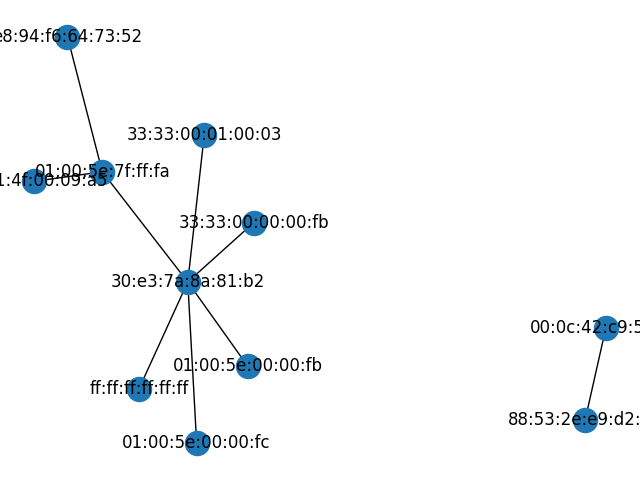
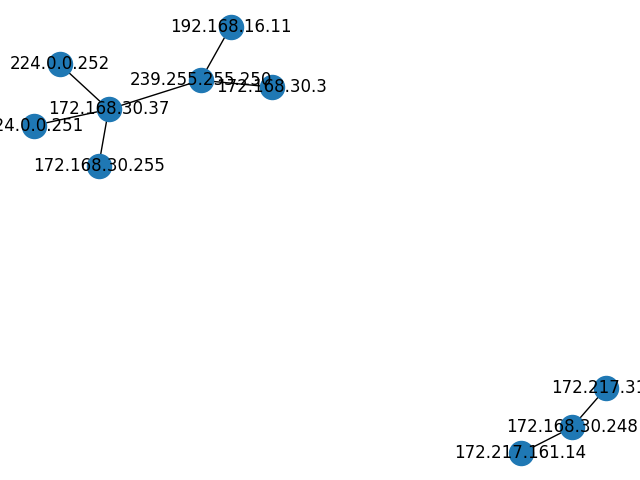
updated

diff --git a/script.py b/script.py
@@ -8,14 +8,11 @@ d = defaultdict(list)
 graph = nx.Graph()
 
 for packet in packets:
-    graph.add_node(packet.src)
-    graph.add_node(packet.dst)
-    graph.add_edge(packet.src, packet.dst)
-    #d[packet.src].append(packet.dst)
-    #d[packet.dst].append(packet.src)
+    if IP in packet:
+#        print(packet[IP].src, packet[IP].dst)
+        graph.add_node(packet[IP].src)
+        graph.add_node(packet[IP].dst)
+        graph.add_edge(packet[IP].src, packet[IP].dst)
 
-#for key, value in d.items():
-#    print(key, ":", value)
 nx.draw(graph, with_labels=True)
 plt.savefig("sample.png")
-plt.show()
